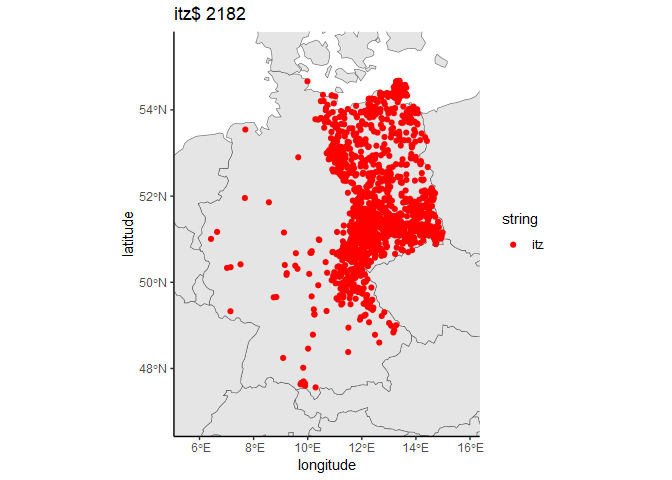
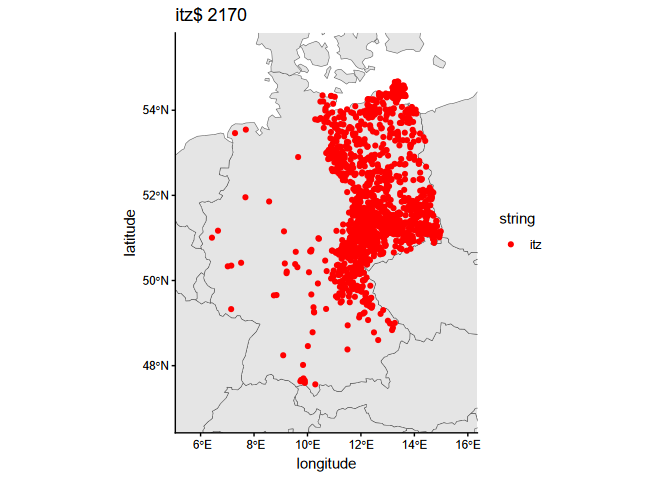
updated readme

diff --git a/README.md b/README.md
@@ -1,9 +1,11 @@
 toponym
 ================
-February 21, 2024
+December 5, 2025
 
 <!-- README.md is generated from README.Rmd. Please edit that file -->
+
 <!-- badges: start -->
+
 <!-- badges: end -->
 
 Welcome to the `toponym` GitHub page!
@@ -46,8 +48,8 @@ top("itz$", "DE")
 
 <img src="man/figures/README-example-1.png" width="100%" />
 
-The plot displays all locations which end in “-itz” in Germany, their
-total frequency (2182), and stores the data in the global environment.
+The plot displays all locations which end in -itz in Germany, their
+total frequency (2170), and stores the data in the global environment.
 
 For the purpose of plotting an edited data frame, we offer the
 `mapper()`function. This accepts a user-defined title, legend, colors,
@@ -132,7 +134,7 @@ topFreq(countries = "Philippines",
         type = "$")
 #> toponyms
 #> gan$ ang$ ong$ yan$ uan$ ion$ nan$ tan$ lan$ san$ 
-#> 1750 1247 1128  764  693  608  598  548  545  504
+#> 1767 1258 1136  771  709  615  604  552  551  510
 ```
 
 Among all toponyms in the data for the Philippines
@@ -142,9 +144,10 @@ three characters (`len = 3`).
 
 The additional parameter `polygon` allows users to restrict the data to
 a subset of the selected countries. Only toponyms within the polygon are
-selected. The polygon need to intersect or be within a country specified
-by the `countries` parameter. The package contains a predefined polygon
-for the historical Danelaw area of England for purposes of illustration:
+selected. The polygon needs to intersect or be within a country
+specified by the `countries` parameter. The package contains a
+predefined polygon for the historical Danelaw area of England for
+purposes of illustration:
 
 ``` r
 topFreq(countries = "GB",
@@ -153,8 +156,8 @@ topFreq(countries = "GB",
         polygon = toponym::danelaw_polygon
 )
 #> toponyms
-#> ton$ ham$ ley$ een$ ord$ rpe$ rth$ ill$ eld$ ell$ 
-#> 1213  430  300  191  157  156  153  149  146  128
+#> ton$ een$ ham$ ill$ ley$ End$ rpe$ eld$ ord$ rth$ 
+#> 1468  694  493  437  436  431  264  257  202  192
 ```
 
 ## Create polygons
@@ -178,9 +181,9 @@ and latitudinal coordinates called `argentina_polygon` is created.
 
 ## Strings specific to a region
 
-`topComp()` determines which toponym strings in the data are
-characteristic to a region. Consider again the following example for the
-Danelaw area:
+`topComp()`, meaning “toponym compare”, determines which toponym strings
+in the data are characteristic to a region. Consider again the following
+example for the Danelaw area:
 
 ``` r
 topComp(countries = "GB",
@@ -192,8 +195,7 @@ topComp(countries = "GB",
 #> 
 #> Dataframe data_top_100 saved in global environment.
 #>   toponym ratio_perc frequency
-#> 1    rpe$      89.14   156/175
-#> 2    lme$      80.43     37/46
+#> 1    rpe$       90.1   264/293
 ```
 
 The function compares the frequency of trailing strings (`type = "$"`)
@@ -204,9 +206,9 @@ frequency. The search is limited to the 100 (`limit = 100`) most
 frequent strings in the United Kingdom consisting of (a length of) three
 characters (`len = 3`). The cut-off ratio of 80% (`rat = .8`) means that
 at least 80% of all occurrences (in the country or countries) must be
-inside the polygon. In this case, the string “-rpe” occurs 175 times in
-the United Kingdom and 156 of these 176 occurrences are within the
-target polygon resulting in a ratio percentage of 89.14%.
+inside the polygon. In this case, the string -rpe occurs 293 times in
+the United Kingdom and 264 of these 293 occurrences are within the
+target polygon resulting in a ratio percentage of 90.1%.
 
 ## Creating multiple maps at once
 
@@ -240,20 +242,48 @@ topZtest(strings = "aat$",
 #>  2-sample test for equality of proportions with continuity correction
 #> 
 #> data:  c(string_in_poly, string_in_cc) out of c(top_in_poly, top_in_cc)
-#> X-squared = 321.76, df = 1, p-value < 2.2e-16
+#> X-squared = 321.66, df = 1, p-value < 2.2e-16
 #> alternative hypothesis: greater
 #> 95 percent confidence interval:
-#>  0.04767105 1.00000000
+#>  0.0476564 1.0000000
 #> sample estimates:
 #>       prop 1       prop 2 
-#> 0.0527035237 0.0003287851
+#> 0.0526875190 0.0003287851
 ```
 
 In this example, the function compares the toponymic distribution of the
-trailing string “-aat” (`strings = "aat$"`) in Flanders
+trailing string -aat (`strings = "aat$"`) in Flanders
 (`polygon = toponym::flanders_polygon`) with Belgium
 (`countries = "BEL"`) as a whole. The result of the two proportion test
 is returned as an object of class `htest`.
+
+## Manage Options of`toponym`
+
+`toponymOptions` allows users to modify settings for managing toponym
+data.
+
+For the parameter `global`: if the current setting is `TRUE`, matches
+from `top()` and strings from `topComp()` will be saved in the global
+environment; if the current setting is `FALSE`, the results will not be
+saved.
+
+For the parameter `save_data`: if the current setting is `TRUE`, toponym
+data sets will be saved in the package folder; if the current setting is
+`FALSE`, toponym data sets will be saved in a temporary folder.
+
+If no parameter is set, i.e. `toponymOptions()`, the complete data frame
+with current settings is printed, as illustrated in the following
+example:
+
+``` r
+toponymOptions()
+#>           value
+#> global     TRUE
+#> save_data  TRUE
+
+# toponymOptions(global = FALSE)
+# the command in the preceding line would change the parameter `global` from `TRUE` as shown in the table to `FALSE` as given in the command
+```
 
 ## The functions
 
@@ -262,7 +292,7 @@ The core functions are as follows:
 - `top()` returns and plots selected toponyms onto a map.
 - `country()` helps in navigating designations of countries and regions
   used by the package.
-- `creatPolygon()` lets users create a polygon by point-and-click or
+- `createPolygon()` lets users create a polygon by point-and-click or
   directly retrieve polygon data.
 - `mapper()` plots a user-specific data frame onto a map.
 - `topComp()` compares toponym substrings in a polygon and in the
@@ -270,6 +300,8 @@ The core functions are as follows:
 - `topCompOut()` saves multiple maps and toponym data.
 - `topFreq()` retrieves most frequent toponym substrings.
 - `topZtest()` lets users apply a Z-test on toponym distributions.
+- `toponymOptions()` allows users to modify settings for managing
+  toponym data.
 
 For help type `?toponym` or a question mark following the individual
 function name (or use the `help()` syntax). A link to the index at the
@@ -288,14 +320,12 @@ The toponym data comes from [GeoNames](https://www.geonames.org/) and
 will be automatically downloaded when you call any of the core
 functions. It is recommended to save the data of the countries you
 access in the package directory. This is the default option of the
-function `getData()` but it is possible to place it in the temporary
-folder by changing the parameter to `save = FALSE`. If you want to store
-data only temporary, you need to use `getData()` before any other
-function. Type `tempdir()` to find the temporary directory of the
-current session.
+function `toponymOptions` but it is possible to place it in the
+temporary folder by changing the parameter to `save_date = FALSE`. Type
+`tempdir()` to find the temporary directory of the current session.
 
 For mapping purposes as well as region designations, the
 [geodata](https://cran.r-project.org/web/packages/geodata/index.html)
 package is used. It provides spatial data for all countries and regions
-available in this package. All maps are stored in the geodata package
+available in this package. All maps are stored in the `geodata` package
 directory.
